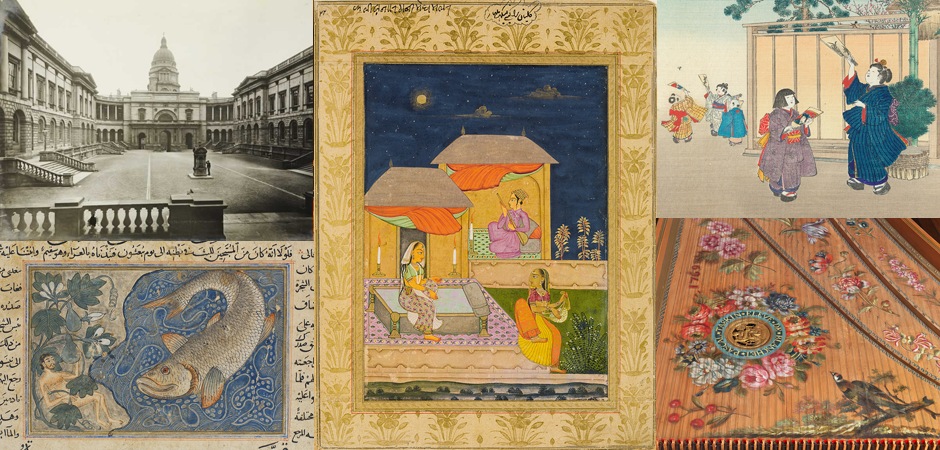
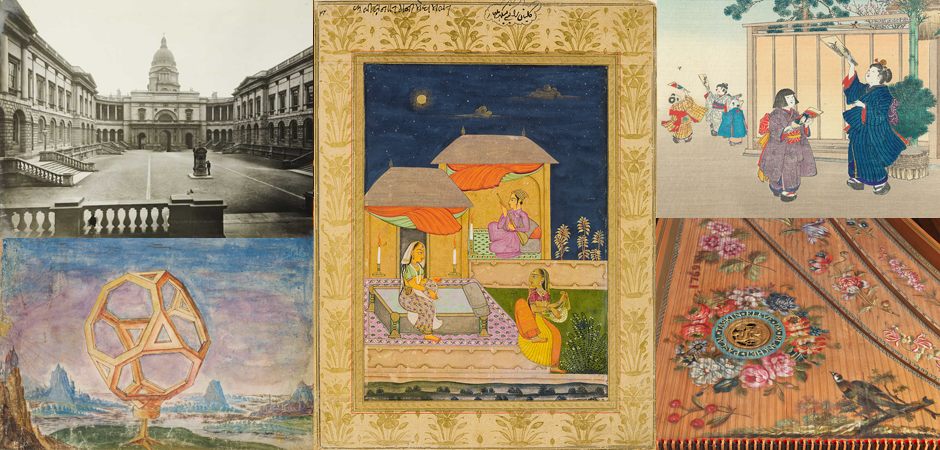
LIB001-875: New exhibitions slide and corrections of past exhibitions link

Changed region(s): [[0.0, 0.5289, 0.3394, 1.0]]

diff --git a/theme-local/clds/css/style.css b/theme-local/clds/css/style.css
@@ -450,10 +450,11 @@ table tr:last-child                 { border: 0; border-bottom: none; }
     /* filter: alpha(opacity=80); /* IE transparency */
 }
 
-.caption-art                { top: 6%; right: 61%; bottom: 81%; left: 2%;}
-.caption-mimed              { top: 6%; right: 48%; bottom: 81%; left: 2%;}
+.caption-art                { top: 6%; right: 59%; bottom: 81%; left: 2%;}
+.caption-mimed              { top: 6%; right: 59%; bottom: 81%; left: 2%;}
 .caption-russell            { top: 6%; right: 59%; bottom: 81%; left: 2%;}
-.caption-calendars          { top: 6%; right: 61%; bottom: 81%; left: 2%;}
+.caption-calendars          { top: 6%; right: 63%; bottom: 81%; left: 2%;}
+.caption-exhibitions        { top: 6%; right: 63%; bottom: 81%; left: 2%;}
 
 .pagenotfound {
     border-top: 1px solid #005784;

diff --git a/theme/clds/views/index.php b/theme/clds/views/index.php
@@ -13,17 +13,17 @@
         <div class="carousel-inner">
             <div class="item active">
                 <a href="<?php echo base_url(); ?>art">
-                <img src="<?php echo base_url(); ?>theme/<?php echo $this->config->item('skylight_theme'); ?>/images/artslide.png" title="Edinburgh University Art Collection" alt="Edinburgh University Art Collection">
+                <img src="<?php echo base_url(); ?>theme/<?php echo $this->config->item('skylight_theme'); ?>/images/artslide.png" title="University of Edinburgh Art Collection" alt="University of Edinburgh Art Collection">
                 <div class="carousel-caption caption-art" onmouseover="this.style.background='#005784';this.style.color='#FFF'" onmouseout="this.style.background='#FFFFFF';this.style.color='#005784'">
-                    Edinburgh University Art Collection
+                    University of Edinburgh Art Collection
                 </div>
                 </a>
             </div>
             <div class="item">
                 <a href="<?php echo base_url(); ?>mimed">
-                <img src="<?php echo base_url(); ?>theme/<?php echo $this->config->item('skylight_theme'); ?>/images/mimedslide.png" title="Edinburgh University Musical Instrument Museums" alt="Edinburgh University Musical Instrument Museums">
+                <img src="<?php echo base_url(); ?>theme/<?php echo $this->config->item('skylight_theme'); ?>/images/mimedslide.png" title="Musical Instrument Museums Edinburgh" alt="Musical Instrument Museums Edinburgh">
                 <div class="carousel-caption caption-mimed" onmouseover="this.style.background='#005784';this.style.color='#FFF'" onmouseout="this.style.background='#FFFFFF';this.style.color='#005784'">
-                    Edinburgh University Musical Instrument Museums
+                    Musical Instrument Museums Edinburgh
                 </div>
                 </a>
             </div>
@@ -37,9 +37,17 @@
             </div>
             <div class="item">
                 <a href="<?php echo base_url(); ?>calendars">
-                    <img src="<?php echo base_url(); ?>theme/<?php echo $this->config->item('skylight_theme'); ?>/images/calendarslide.png" title="Edinburgh University Calendars" alt="Edinburgh University Calendars">
+                    <img src="<?php echo base_url(); ?>theme/<?php echo $this->config->item('skylight_theme'); ?>/images/calendarslide.png" title="University of Edinburgh Calendars" alt="University of Edinburgh Calendars">
                     <div class="carousel-caption caption-calendars" onmouseover="this.style.background='#005784';this.style.color='#FFF'" onmouseout="this.style.background='#FFFFFF';this.style.color='#005784'">
-                        Edinburgh University Calendars
+                        University of Edinburgh Calendars
+                    </div>
+                </a>
+            </div>
+            <div class="item">
+                <a href="https://www.exhibitions.ed.ac.uk">
+                    <img src="<?php echo base_url(); ?>theme/<?php echo $this->config->item('skylight_theme'); ?>/images/exhibitionsslide.png" title="University of Edinburgh Exhibitions" alt="University of Edinburgh Exhibitions">
+                    <div class="carousel-caption caption-exhibitions" onmouseover="this.style.background='#005784';this.style.color='#FFF'" onmouseout="this.style.background='#FFFFFF';this.style.color='#005784'">
+                        University of Edinburgh Exhibitions
                     </div>
                 </a>
             </div>
@@ -76,7 +84,7 @@
                 </a>
             </li>
             <li class="tile">
-                <a href="http://www.ed.ac.uk/schools-departments/information-services/library-museum-gallery/crc/events" target="_blank" class="caption">
+                <a href="http://www.ed.ac.uk/schools-departments/information-services/library-museum-gallery/crc/events-exhibitions" target="_blank" class="caption">
                     <img src="<?php echo base_url(); ?>theme/<?php echo $this->config->item('skylight_theme'); ?>/images/pastexhibitionstile.jpg" alt="Edinburgh University Past Exhibitions Home" title="Edinburgh University Past Exhibitions Home">
                     <span onmouseover="this.style.background='#005784';this.style.color='#FFF'" onmouseout="this.style.background='#FFFFFF';this.style.color='#005784'">Past <br />Exhibitions</span>
                 </a>
